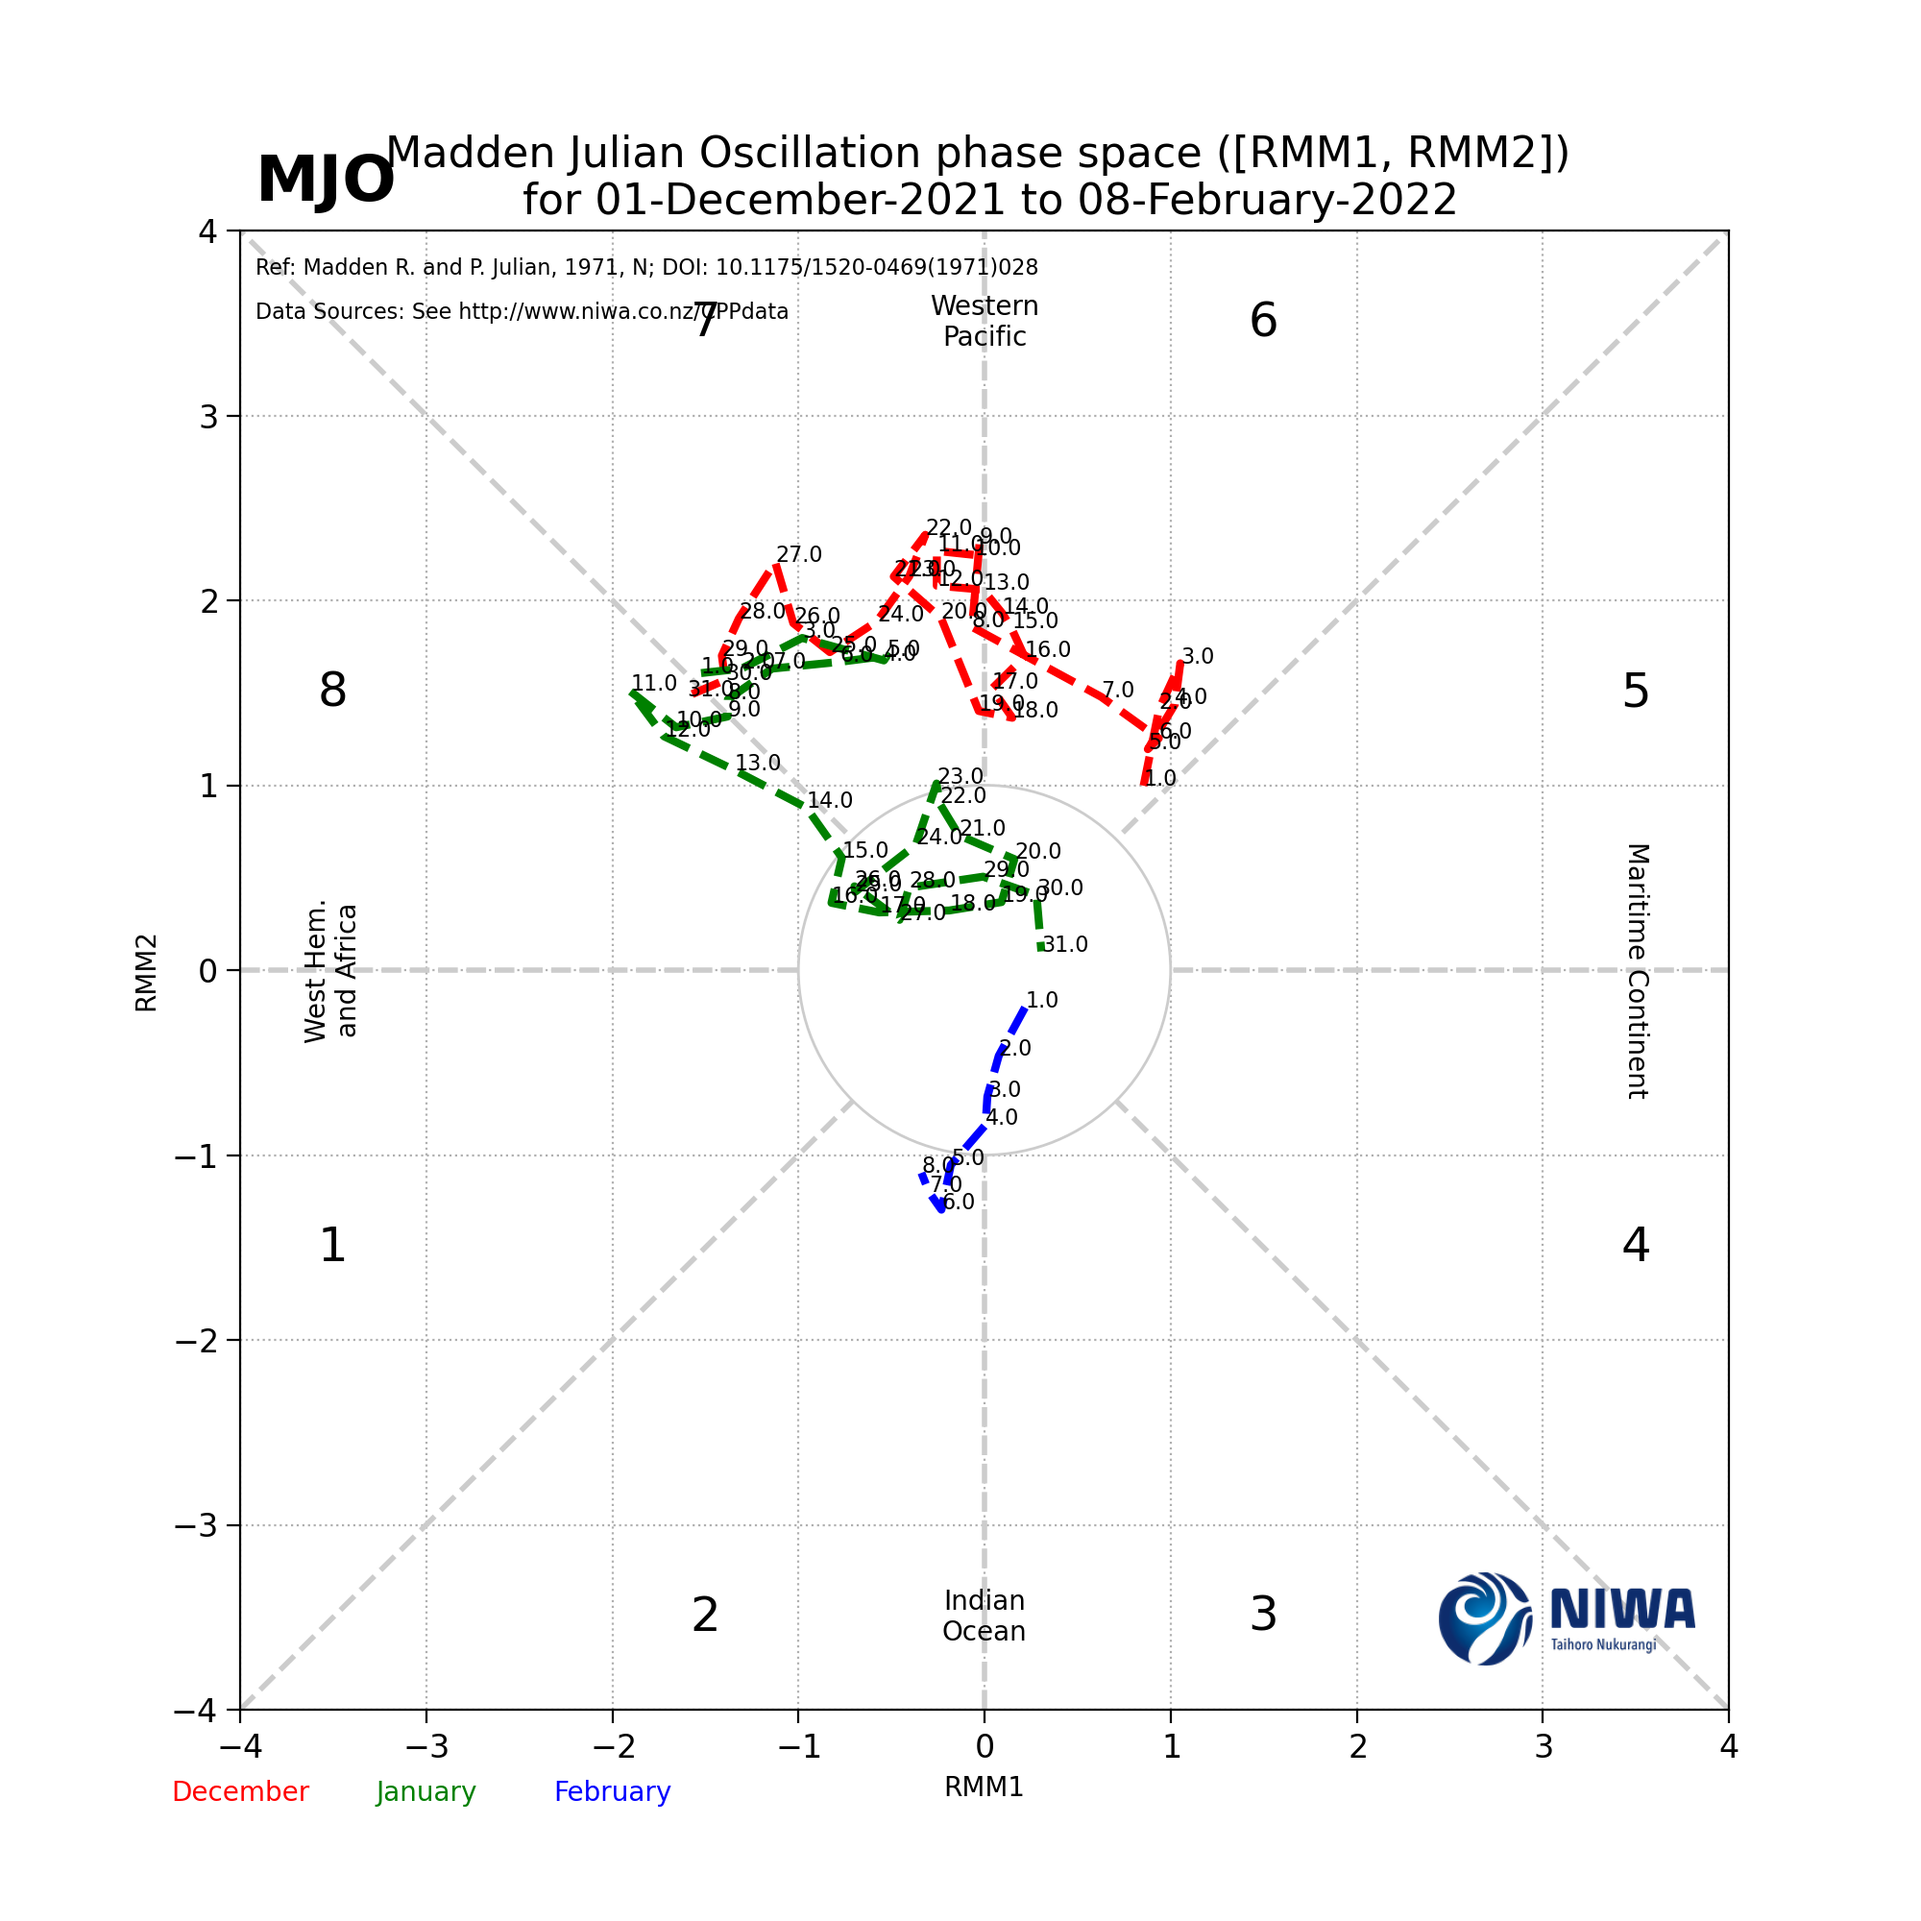
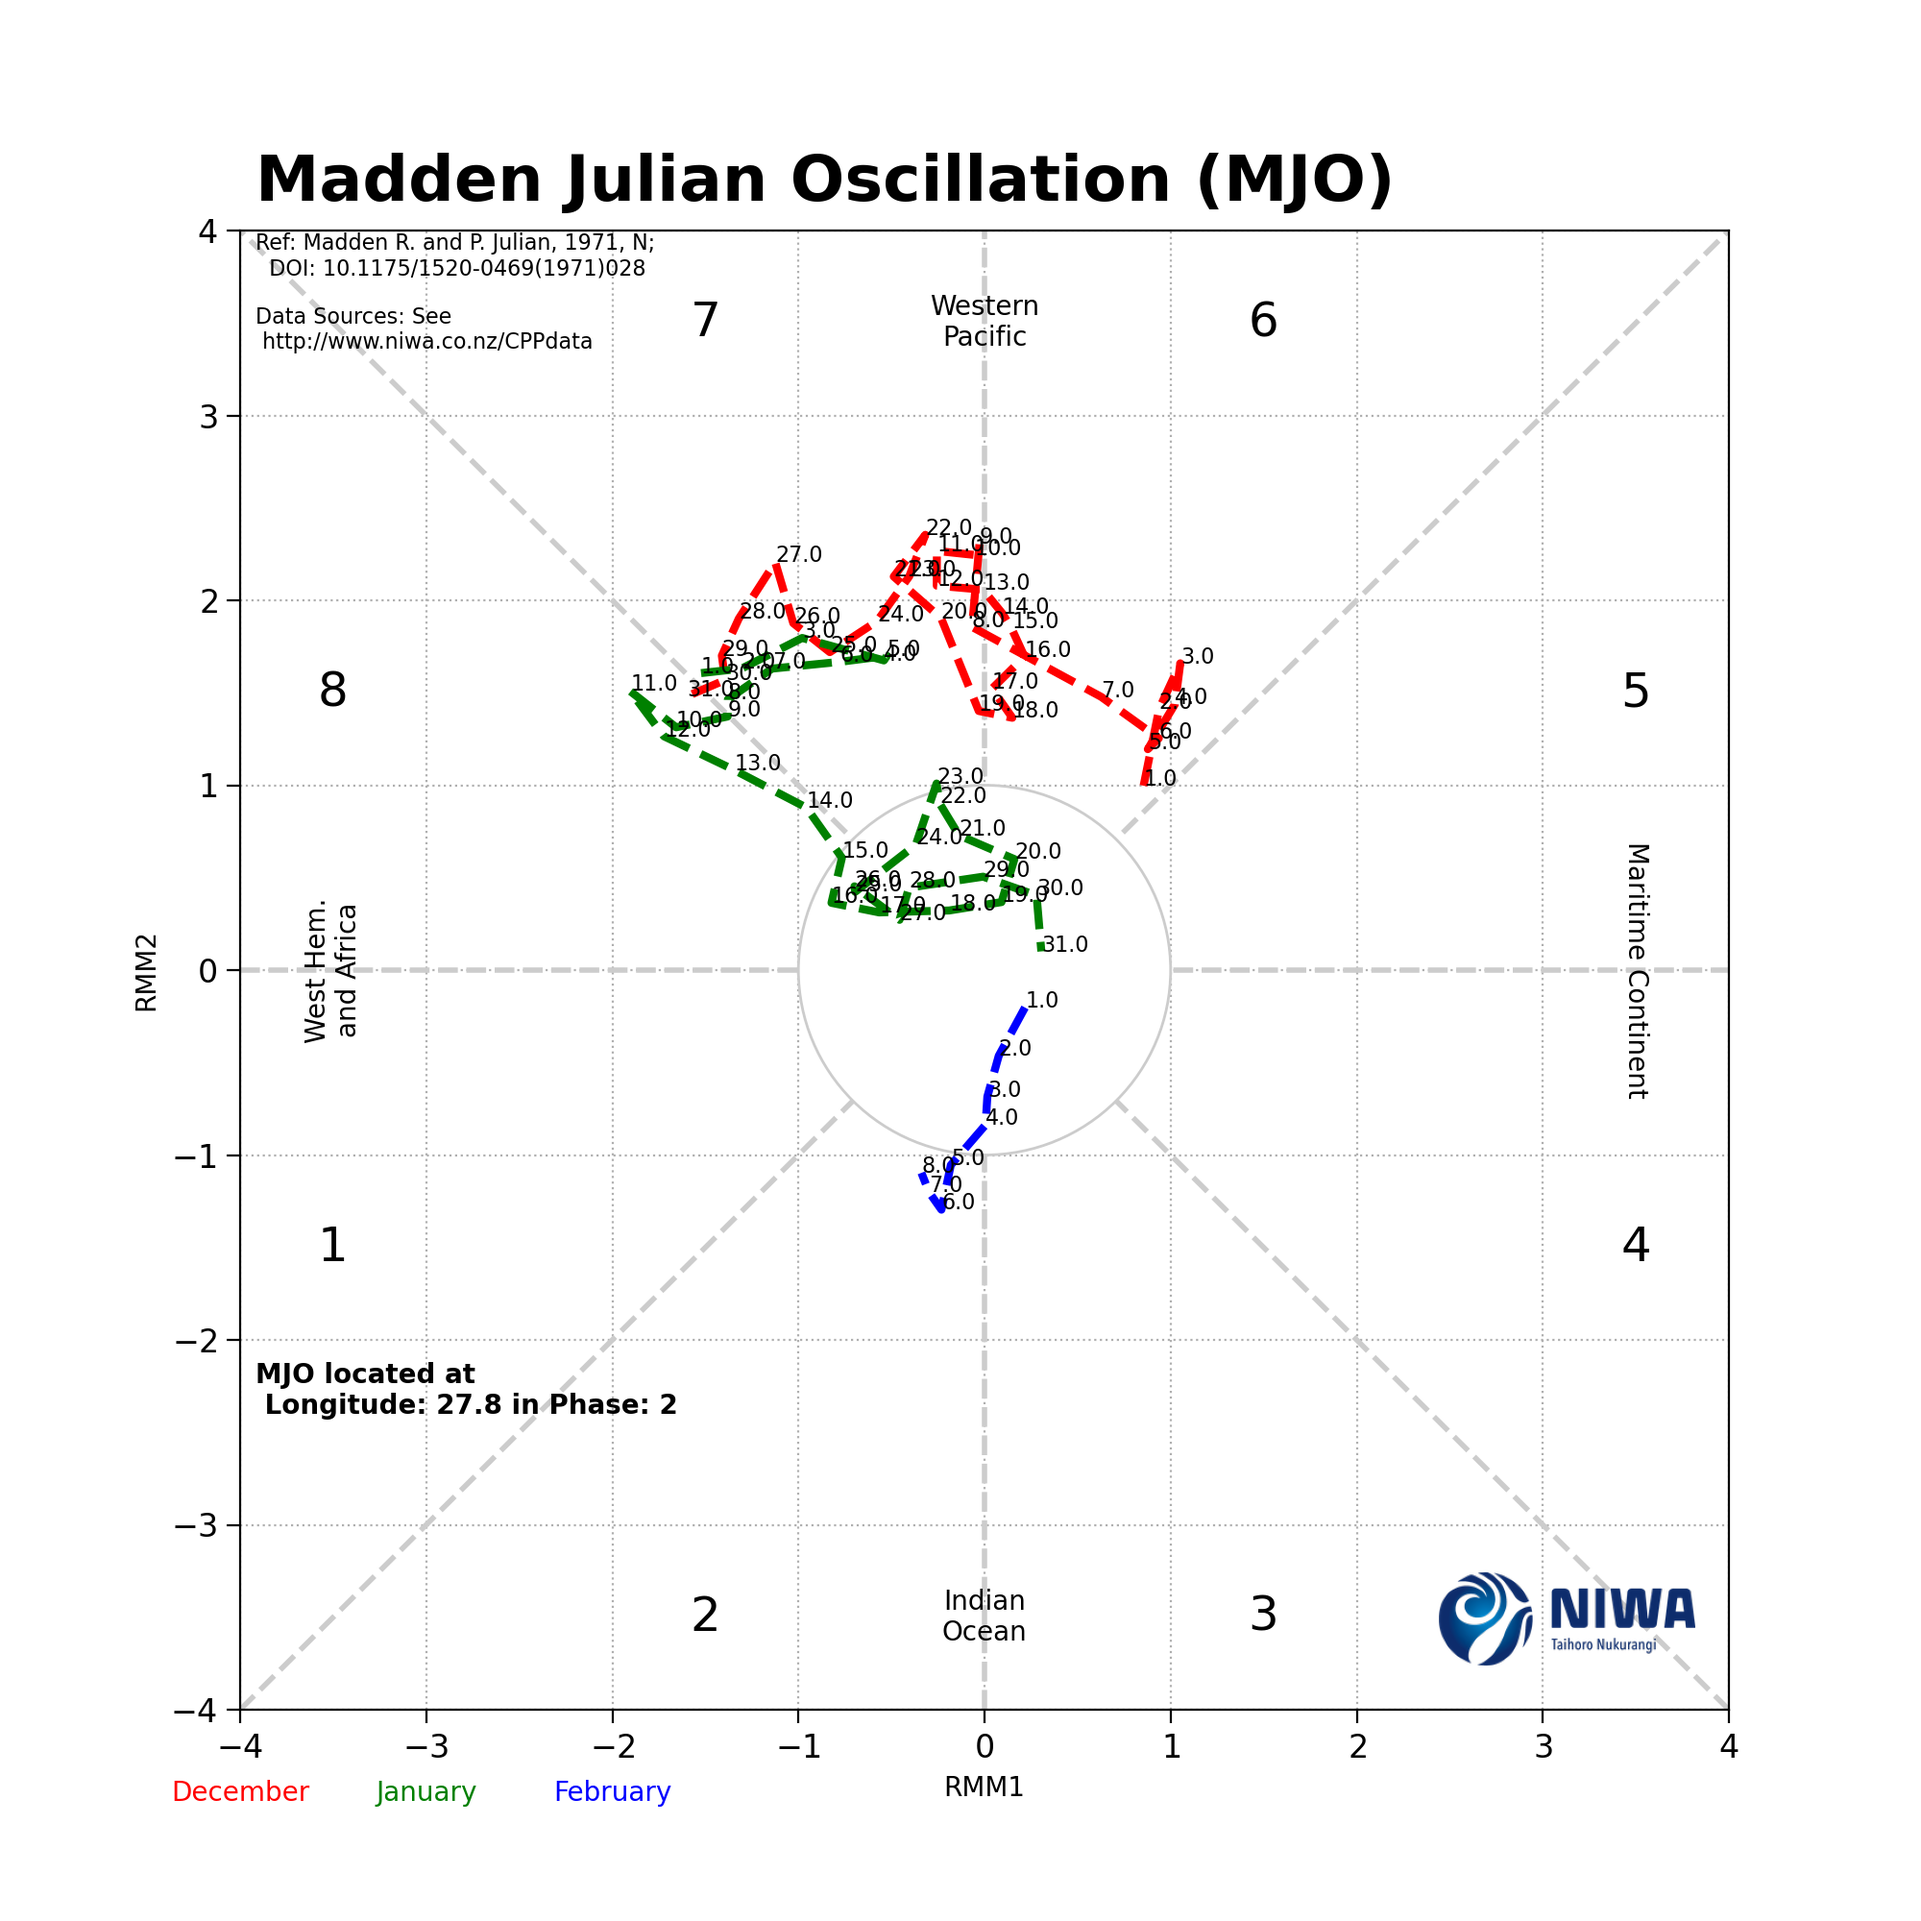
added new plots

Changed region(s): [[0.124, 0.062, 0.806, 0.186], [0.124, 0.713, 0.341, 0.744], [0.372, 0.155, 0.403, 0.186]]

diff --git a/mjo_series/run_mjo.py b/mjo_series/run_mjo.py
@@ -56,14 +56,16 @@ f2,ax2 = plot_mjo_cycle(month_before =month_before, current_month = current_mont
                     start_month=month_before_s, middle_month=previous_month_s,
                    end_month=current_month_s, data_pol=data_pol,
                    most_recent_month=False)
-label = f"MJO located at Longitude: {data_pol.iloc[-1].lon} in Phase: {'%.0f' % data_pol.iloc[-1].phase}"
-ax21= add_reference(ax2, 8, [], top_corner=0.97, separation=0.03,
-              data_source="http://www.niwa.co.nz/CPPdata",
-              ref="Ref: Madden R. and P. Julian, 1971, N; DOI: 10.1175/1520-0469(1971)028")
+ax2.set_title(' ')
+label = f"MJO located at \n Longitude: {data_pol.iloc[-1].lon} in Phase: {'%.0f' % data_pol.iloc[-1].phase}"
+ax21= add_reference(ax2, 8, [], top_corner=0.97, separation=0.05,
+              data_source="\n http://www.niwa.co.nz/CPPdata",
+              ref="Ref: Madden R. and P. Julian, 1971, N; \n  DOI: 10.1175/1520-0469(1971)028")
 ax2 = create_watermark(f2,
                       imagePath='./lib/NIWA_CMYK_Hor.png',
                       label=' ', ax=ax2, alpha=1, loc="lower right")
-ax2.text(0.01, 1.02, f"MJO", fontsize=24, fontweight='bold', transform=ax2.transAxes)
+ax2.text(0.01, 1.02, f"Madden Julian Oscillation (MJO)", fontsize=24, fontweight='bold', transform=ax2.transAxes)
+ax2.text(0.01, 0.2, label, fontsize=10, transform=ax2.transAxes, weight ='bold')
 print("saving file")
 f2.savefig(f'{output_dirs}/MJO_realtime_plot.png', dpi=200)
 #f.savefig(f'{output_dirs}/MJO_realtime_plot_recent.png', dpi=200)
